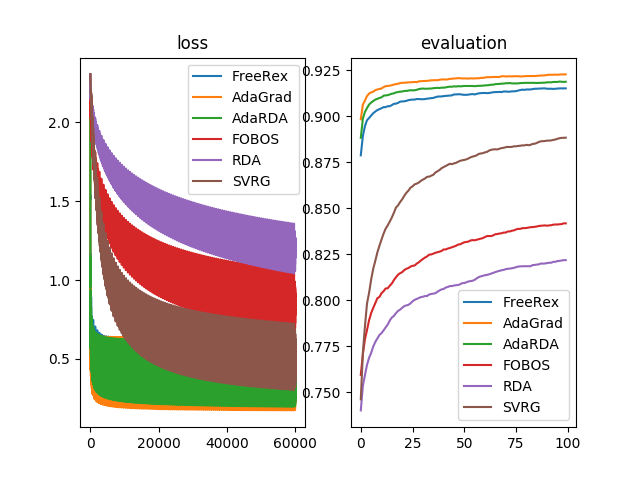
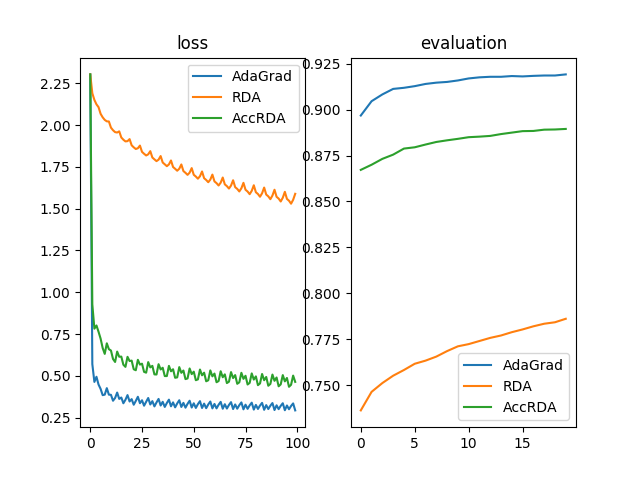
add accRDA and refacter SVRG

diff --git a/oml/optimizers/vr.py b/oml/optimizers/vr.py
@@ -32,85 +32,53 @@ class Svrg(Optimizer):
         self.state['last_epoch_grad'] = {}
         self.state['last_iter_param'] = {}
 
-    def optimize(self, train_iter, test_iter, epoch=20, max_iter=None, show_loss=False, show_evaluation=False):
+    def pre_epoch(self, train_iter, test_iter):
+        # compute total grad
+        iter_num = 0
+        loss = None
 
-        init_t = self.t
+        for page in train_iter.pages:
+            x, t = self.page2data(page)
+            iter_num += 1
+            self.model.loss(x, t)
+            self.model.compute_grad()
 
-        for current_epoch in range(epoch):
+        if isinstance(self.model, Differentiable):
+            self.hyper_parameter['step_size'] = 1 / (3 * self.model.gamma * iter_num)
 
-            # compute total grad
-            iter_num = 0
-            loss = None
+        for i, layer in enumerate(self.model.layers):
+            if isinstance(layer, State):
+                for key in layer.param.keys():
+                    self.state['total_grad'][str(i) + key] = layer.param[key].grad / iter_num
+                    self.state['last_epoch_param'][str(i) + key] = layer.param[key].param
+        self.model.clear_grad()
+        train_iter.initialize()
 
-            for page in train_iter.pages:
-                x, t = self.page2data(page)
-                iter_num += 1
-                self.model.loss(x, t)
-                self.model.compute_grad()
+        # update step
 
-            if isinstance(self.model, Differentiable):
-                self.hyper_parameter['step_size'] = 1 / (3 * self.model.gamma * iter_num)
+    def pre_fb_op(self, x, t):
+        # cal last epoch grad
+        for i, layer in enumerate(self.model.layers):
+            if isinstance(layer, State):
+                for key in layer.param.keys():
+                    self.state['last_iter_param'][str(i) + key] = layer.param[key].param
+                    layer.param[key].param = self.state['last_epoch_param'][str(i) + key]
+        self.model.loss(x, t)
+        self.model.compute_grad()
+        for i, layer in enumerate(self.model.layers):
+            if isinstance(layer, State):
+                for key in layer.param.keys():
+                    self.state['last_epoch_grad'][str(i) + key] = layer.param[key].grad
+                    layer.param[key].param = self.state['last_iter_param'][str(i) + key]
+        self.model.clear_grad()
 
-            for i, layer in enumerate(self.model.layers):
-                if isinstance(layer, State):
-                    for key in layer.param.keys():
-                        self.state['total_grad'][str(i) + key] = layer.param[key].grad / iter_num
-                        self.state['last_epoch_param'][str(i) + key] = layer.param[key].param
-            self.model.clear_grad()
-            train_iter.initialize()
-
-            # update step
-
-            for page in train_iter.pages:
-                x, t = self.page2data(page)
-                self.t += 1
-
-                # cal last epoch grad
-                for i, layer in enumerate(self.model.layers):
-                    if isinstance(layer, State):
-                        for key in layer.param.keys():
-                            self.state['last_iter_param'][str(i) + key] = layer.param[key].param
-                            layer.param[key].param = self.state['last_epoch_param'][str(i) + key]
-                self.model.loss(x, t)
-                self.model.compute_grad()
-                for i, layer in enumerate(self.model.layers):
-                    if isinstance(layer, State):
-                        for key in layer.param.keys():
-                            self.state['last_epoch_grad'][str(i) + key] = layer.param[key].grad
-                            layer.param[key].param = self.state['last_iter_param'][str(i) + key]
-                self.model.clear_grad()
-
-                # parameter update
-                loss = self.model.loss(x, t)
-                self.loss.append(loss)
-
-                if show_loss:
-                    print('=== loss: {}'.format(loss))
-
-                self.model.compute_grad()
-
-                for i, layer in enumerate(self.model.layers):
-                    if isinstance(layer, State):
-                        for key in layer.param.keys():
-                            v = layer.param[key].grad - self.state['last_epoch_grad'][str(i) + key] \
-                                + self.state['total_grad'][str(i) + key]
-                            layer.param[key].param -= self.hyper_parameter['step_size'] * v
-                            if isinstance(layer.param[key], ProximalOracle):
-                                layer.param[key].param = layer.param[key].reg.proximal(
-                                    layer.param[key].param,
-                                    self.hyper_parameter['step_size']
-                                )
-                            self.state['last_iter_param'][str(i) + key] = layer.param[key].param
-
-                if max_iter and max_iter < self.t - init_t:
-                    break
-
-                self.model.clear_grad()
-
-            self.evaluation.append(self.model.evaluate_model(test_iter, show_evaluation))
-            train_iter.initialize()
-            test_iter.initialize()
-
-        print('=== Final Evaluation ===')
-        self.model.evaluate_model(test_iter)
-        test_iter.initialize()
+    def rule(self, i, key, layer):
+        v = layer.param[key].grad - self.state['last_epoch_grad'][str(i) + key] \
+            + self.state['total_grad'][str(i) + key]
+        layer.param[key].param -= self.hyper_parameter['step_size'] * v
+        if isinstance(layer.param[key], ProximalOracle):
+            layer.param[key].param = layer.param[key].reg.proximal(
+                layer.param[key].param,
+                self.hyper_parameter['step_size']
+            )
+        self.state['last_iter_param'][str(i) + key] = layer.param[key].param

diff --git a/oml/optimizers/rda.py b/oml/optimizers/rda.py
@@ -9,7 +9,8 @@ import numpy as np
 from oml.optimizers import optimizer
 from oml.models.components import ProximalOracle
 
-from oml.functions import StrongConvexity
+from oml.functions import StrongConvexity, Differentiable
+from oml.models.components import State
 
 import warnings
 
@@ -56,3 +57,65 @@ class Rda(optimizer.Optimizer):
                 layer.param[key].param, self.hyper_parameter['step_size'] * np.sqrt(self.t)
             )
 
+
+class AcceleratedRDA(optimizer.Optimizer):
+    """
+        Xiao, Lin.
+        "Dual averaging methods for regularized stochastic learning and online optimization."
+        Journal of Machine Learning Research 11.Oct (2010): 2543-2596.
+        """
+
+    def __init__(
+            self,
+            model,
+            t=0,
+            gamma=2,
+    ):
+        optimizer.Optimizer.__init__(
+            self,
+            model,
+            t=t,
+        )
+        self.hyper_parameter['gamma'] = gamma
+        self.state['A'] = 0
+        self.state['v'] = {}
+        self.state['last_param'] = {}
+        self.state['averaged_cumulative_grad'] = {}
+
+        if isinstance(model, StrongConvexity):
+            self.hyper_parameter['mu'] = model.mu
+        else:
+            warnings.warn("RDA is not appropriate for optimizing non convex objective")
+            self.hyper_parameter['mu'] = None
+        if isinstance(model, Differentiable):
+            self.hyper_parameter['L'] = model.gamma
+        else:
+            raise ValueError("The loss of model is not differentiable")
+
+    def pre_fb_op(self, train_iter, test_iter):
+        self.state['A'] = self.t * (self.t + 1) / 4
+        theta = 2 / (self.t + 1)
+
+        for i, layer in enumerate(self.model.layers):
+            if isinstance(layer, State):
+                for key in layer.param.keys():
+                    self.state['last_param'][str(i) + key] = layer.param[key].param
+                    layer.param[key].param \
+                        = (1 - theta) * layer.param[key].param
+                    + theta * self.state['v'].get(str(i) + key, np.random.randn(*layer.param[key].param.shape) * 1e-8)
+
+    def rule(self, i, key, layer):
+        theta = 2 / (self.t + 1)
+        grad = layer.param[key].grad
+        beta = self.hyper_parameter['gamma'] * (self.t + 1) * np.sqrt(self.t + 1) / 2
+        step_size = self.state['A'] / (self.hyper_parameter['L'] + beta)
+        self.state['averaged_cumulative_grad'][str(i) + key] = \
+            self.state['averaged_cumulative_grad'].get(str(i) + key, np.zeros_like(grad)) * (1 - theta) + grad * theta
+
+        self.state['v'][str(i) + key] = - step_size * self.state['averaged_cumulative_grad'][str(i) + key]
+
+        if isinstance(layer.param[key], ProximalOracle):
+            self.state['v'][str(i) + key] = layer.param[key].reg.proximal(self.state['v'][str(i) + key], step_size)
+
+        layer.param[key].param = \
+            (1 - theta) * self.state['last_param'][str(i) + key] + theta * self.state['v'][str(i) + key]

diff --git a/examples/softmax.py b/examples/softmax.py
@@ -10,7 +10,7 @@ from sklearn.preprocessing import maxabs_scale
 from oml.models.glm import SoftmaxRegression
 from oml.models.regulizers import L2Sq, L1
 from oml.optimizers.adagrad import PrimalDualAdaGrad, AdaGrad
-from oml.optimizers.rda import Rda
+from oml.optimizers.rda import Rda, AcceleratedRDA
 from oml.optimizers.fobos import Fobos
 from oml.optimizers.vr import Svrg
 from oml.optimizers.freerex import FreeRex
@@ -47,27 +47,31 @@ results = {}
 
 def opt_test(optimizer, label):
     print(label)
-    optimizer.optimize(train_iter, test_iter, show_evaluation=True, epoch=100)
+    optimizer.optimize(train_iter, test_iter, show_evaluation=True)
 
     results[label] = {
         'loss': optimizer.loss,
-        'evaluation': optimizer.evaluation
+        'accuracy': optimizer.evaluation
     }
 
-opt_test(FreeRex(SoftmaxRegression(feature, target, reg=L1(0.0001))), 'FreeRex')
+# opt_test(FreeRex(SoftmaxRegression(feature, target, reg=L1(0.0001))), 'FreeRex')
 opt_test(AdaGrad(SoftmaxRegression(feature, target, reg=L1(0.0001))), 'AdaGrad')
-opt_test(PrimalDualAdaGrad(SoftmaxRegression(feature, target, reg=L1(0.0001))), 'AdaRDA')
-opt_test(Fobos(SoftmaxRegression(feature, target, reg=L1(0.0001))), 'FOBOS')
+# opt_test(PrimalDualAdaGrad(SoftmaxRegression(feature, target, reg=L1(0.0001))), 'AdaRDA')
+# opt_test(Fobos(SoftmaxRegression(feature, target, reg=L1(0.0001))), 'FOBOS')
 opt_test(Rda(SoftmaxRegression(feature, target, reg=L1(0.0001))), 'RDA')
-opt_test(Svrg(SoftmaxRegression(feature, target, reg=L1(0.0001))), 'SVRG')
+opt_test(AcceleratedRDA(SoftmaxRegression(feature, target, reg=L1(0.0001))), 'AccRDA')
+# opt_test(Svrg(SoftmaxRegression(feature, target, reg=L1(0.0001))), 'SVRG')
 
 
 def plot(result):
-    for i, title in enumerate(['loss', 'evaluation']):
+    for i, title in enumerate(['loss', 'accuracy']):
         plt.subplot(1, 2, i+1)
         plt.title(title)
         for method in result.keys():
-            plt.plot(list(range(len(result[method][title]))), result[method][title], label=method)
+            lst = result[method][title]
+            if len(lst) // 100 > 0:
+                lst = lst[::len(lst) // 100]
+            plt.plot(list(range(len(lst))), lst, label=method)
         plt.legend()
     plt.savefig('softmax.png')
 

diff --git a/examples/lr.py b/examples/lr.py
@@ -12,7 +12,7 @@ from oml.models.glm import LinearRegression
 from oml.models.regulizers import L1, L2Sq
 from oml.optimizers.fobos import Fobos
 from oml.optimizers.adagrad import AdaGrad, PrimalDualAdaGrad
-from oml.optimizers.rda import Rda
+from oml.optimizers.rda import Rda, AcceleratedRDA
 from oml.optimizers.vr import Svrg
 from oml.optimizers.freerex import FreeRex
 from oml.datasouces.iterator import NumpyIterator
@@ -50,10 +50,11 @@ def opt_test(optimizer, label):
         'rmse': optimizer.evaluation
     }
 
-opt_test(FreeRex(LinearRegression(feature, target, reg=L2Sq(0.01))), 'FreeRex')
-opt_test(AdaGrad(LinearRegression(feature, target, reg=L2Sq(0.01))), 'AdaGrad')
-opt_test(PrimalDualAdaGrad(LinearRegression(feature, target, reg=L2Sq(0.01))), 'AdaRDA')
-opt_test(Fobos(LinearRegression(feature, target, reg=L2Sq(0.01))), 'FOBOS')
+opt_test(AcceleratedRDA(LinearRegression(feature, target, reg=L2Sq(0.01))), 'AccRDA')
+# opt_test(FreeRex(LinearRegression(feature, target, reg=L2Sq(0.01))), 'FreeRex')
+# opt_test(AdaGrad(LinearRegression(feature, target, reg=L2Sq(0.01))), 'AdaGrad')
+# opt_test(PrimalDualAdaGrad(LinearRegression(feature, target, reg=L2Sq(0.01))), 'AdaRDA')
+# opt_test(Fobos(LinearRegression(feature, target, reg=L2Sq(0.01))), 'FOBOS')
 opt_test(Rda(LinearRegression(feature, target, reg=L2Sq(0.01))), 'RDA')
 opt_test(Svrg(LinearRegression(feature, target, reg=L2Sq(0.01))), 'SVRG')
 
@@ -62,8 +63,12 @@ def plot(result):
     for i, title in enumerate(['loss', 'rmse']):
         plt.subplot(1, 2, i + 1)
         plt.title(title)
+
         for method in result.keys():
-            plt.plot(list(range(len(result[method][title]))), result[method][title], label=method)
+            lst = result[method][title]
+            if len(lst)//100 > 0:
+                lst = lst[::len(lst)//100]
+            plt.plot(list(range(len(lst))), lst, label=method)
         plt.legend()
     plt.savefig('lr.png')
 

diff --git a/oml/optimizers/optimizer.py b/oml/optimizers/optimizer.py
@@ -39,9 +39,15 @@ class Optimizer:
         loss = None
 
         for current_epoch in range(epoch):
+
+            self.pre_epoch(train_iter, test_iter)
+
             for page in train_iter.pages:
                 x, t = self.page2data(page)
                 self.t += 1
+
+                self.pre_fb_op(x, t)
+
                 loss = self.model.loss(x, t)
                 self.loss.append(loss)
 
@@ -69,3 +75,9 @@ class Optimizer:
 
     def rule(self, i, key, layer):
         raise NotImplementedError()
+
+    def pre_fb_op(self, x, t):
+        pass
+
+    def pre_epoch(self, train_iter, test_iter):
+        pass
